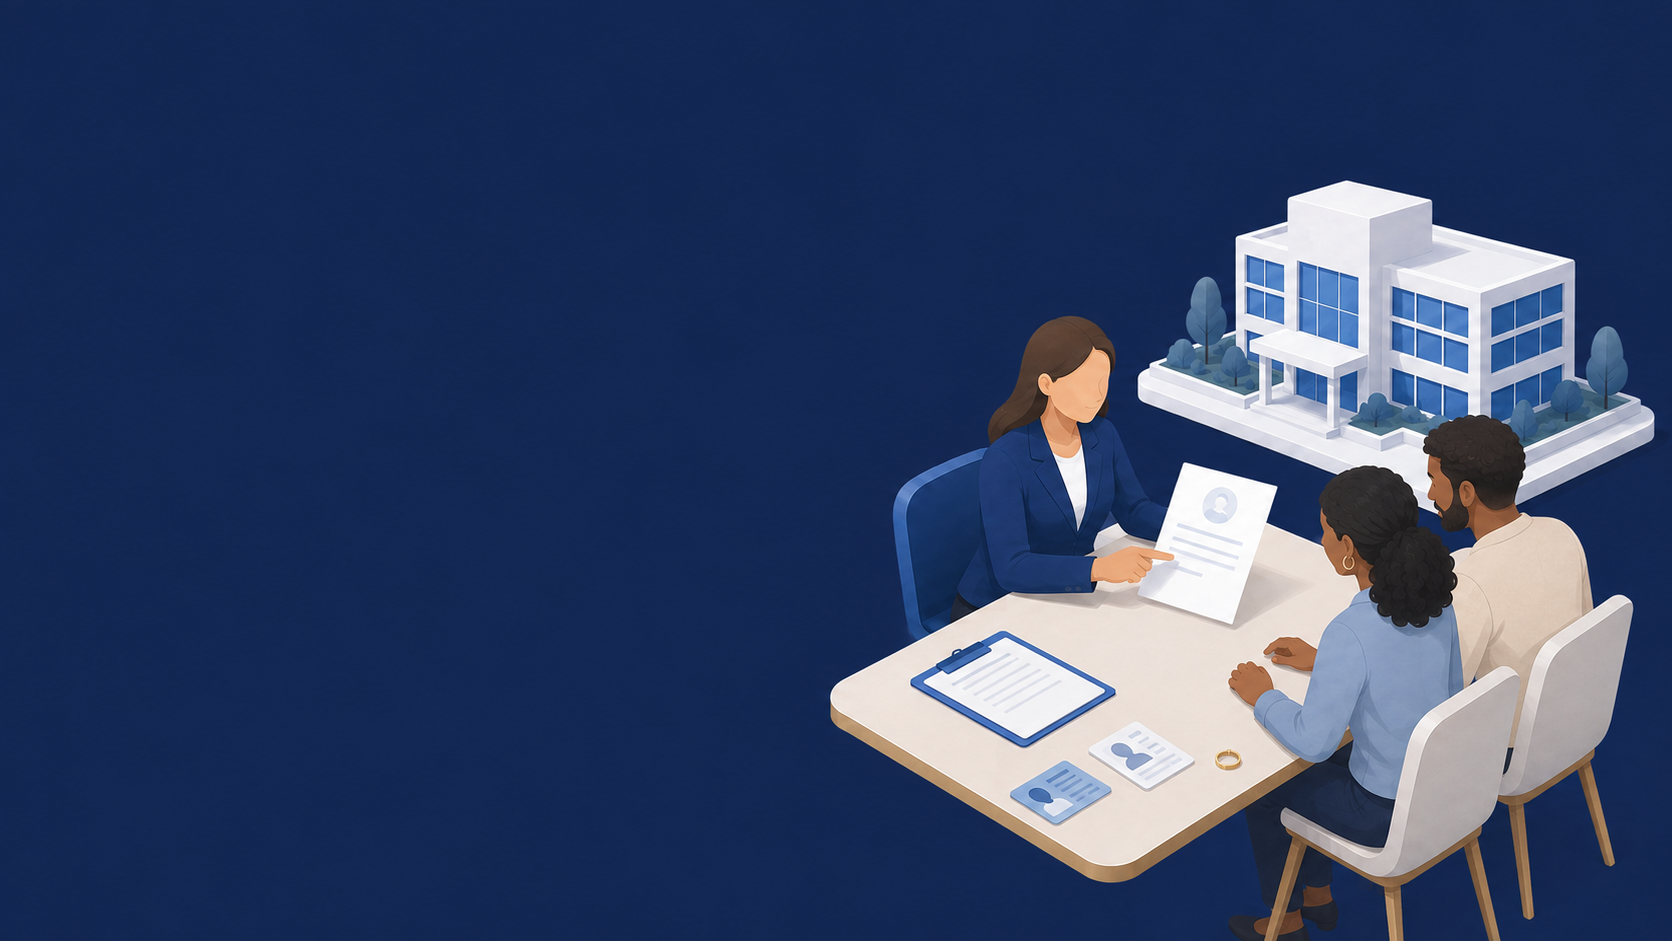
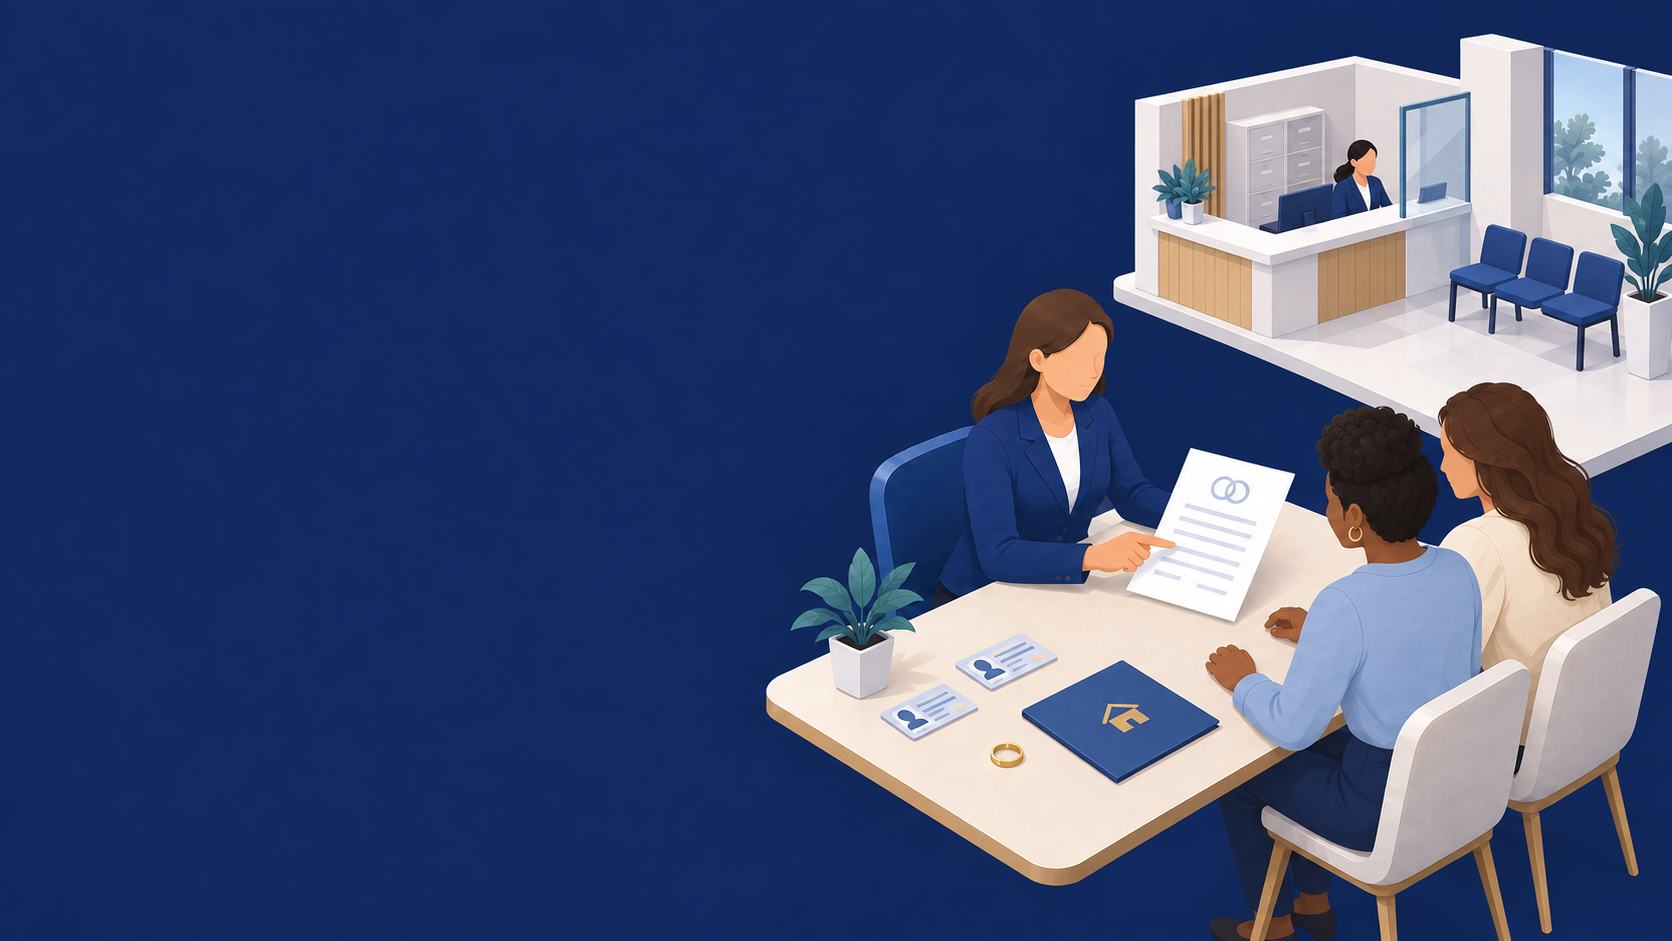
areas: nova ilustração de Direitos LGBTQIAPN+
Troca a arte do hero e reescreve o alt para a cena nova: entrou a recepção do
cartório com atendente e cadeiras de espera, e os documentos e alianças
ficaram em destaque sobre a mesa. Alt que descreve outra imagem atrapalha
quem usa leitor de tela.

A composição segue o padrão da coleção — vazio à esquerda, cena à direita —,
então não precisa de enquadramento próprio.

Changed region(s): [[0.4354, 0.0308, 1.0, 1.0]]

diff --git a/site/src/content/areas.ts b/site/src/content/areas.ts
@@ -942,7 +942,7 @@ export const areas: Record<string, Area> = {
       "Orientação em família, sucessões, união estável, planejamento patrimonial, discriminação e direitos civis, com confidencialidade e linguagem clara.",
     heroImage: "/imagens-areas/direitos-lgbtqia/hero-isometrico.png",
     heroImageAlt:
-      "Advogada entrega um documento a um casal, com um cartório ao fundo.",
+      "Advogada apresenta um documento a um casal; sobre a mesa, documentos de identidade e alianças, e ao fundo a recepção de um cartório.",
     heroMicrocopy: "Atendimento confidencial em Juiz de Fora e online.",
     intro:
       "Atuação respeitosa, confidencial e tecnicamente sólida em demandas sensíveis. No primeiro contato pedimos apenas o essencial — você não precisa compartilhar detalhes íntimos.",
